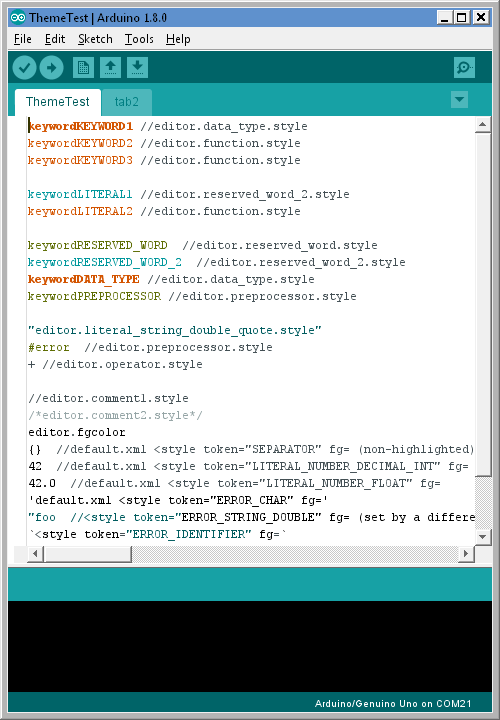
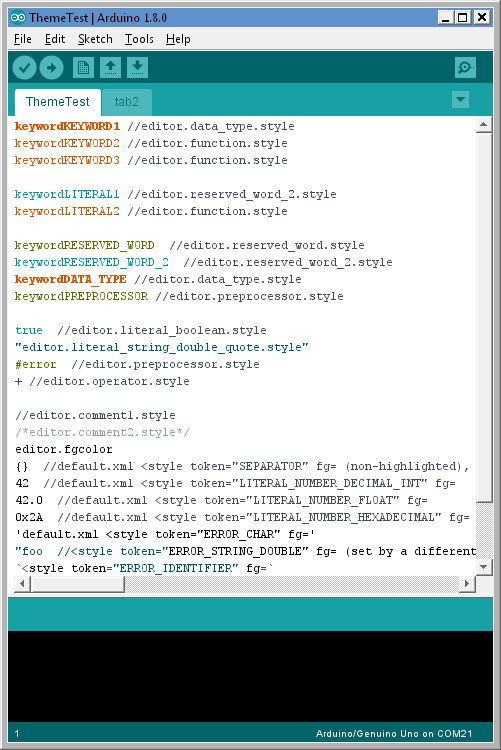
Document editor.literal_boolean.style
Thanks to Arduino forum user revolt_randy:
http://forum.arduino.cc/index.php?action=profile;u=515219

diff --git a/README.md b/README.md
@@ -138,7 +138,7 @@ The following information was determined using Arduino IDE 1.6.11. Unless otherw
   - `editor.literal2.style` - Doesn't appear to have any effect.
   - `editor.variable.style` - Doesn't appear to have any effect.
   - `editor.reserved_word_2.style` - `LITERAL1` and `RESERVED_WORD_2` keywords in the keywords.txt file of any installed library or {Arduino IDE installation folder}/lib/keywords.txt.
-  - `editor.literal_boolean.style` - Doesn't appear to have any effect.
+  - `editor.literal_boolean.style` - true or false
   - `editor.literal_char.style` - Doesn't appear to have any effect.
   - `editor.literal_string_double_quote.style` - Text surrounded by double quotes.
   - `editor.preprocessor.style` - Preprocessor directives(or `PREPROCESSOR` keywords in the keywords.txt file of any installed library).
